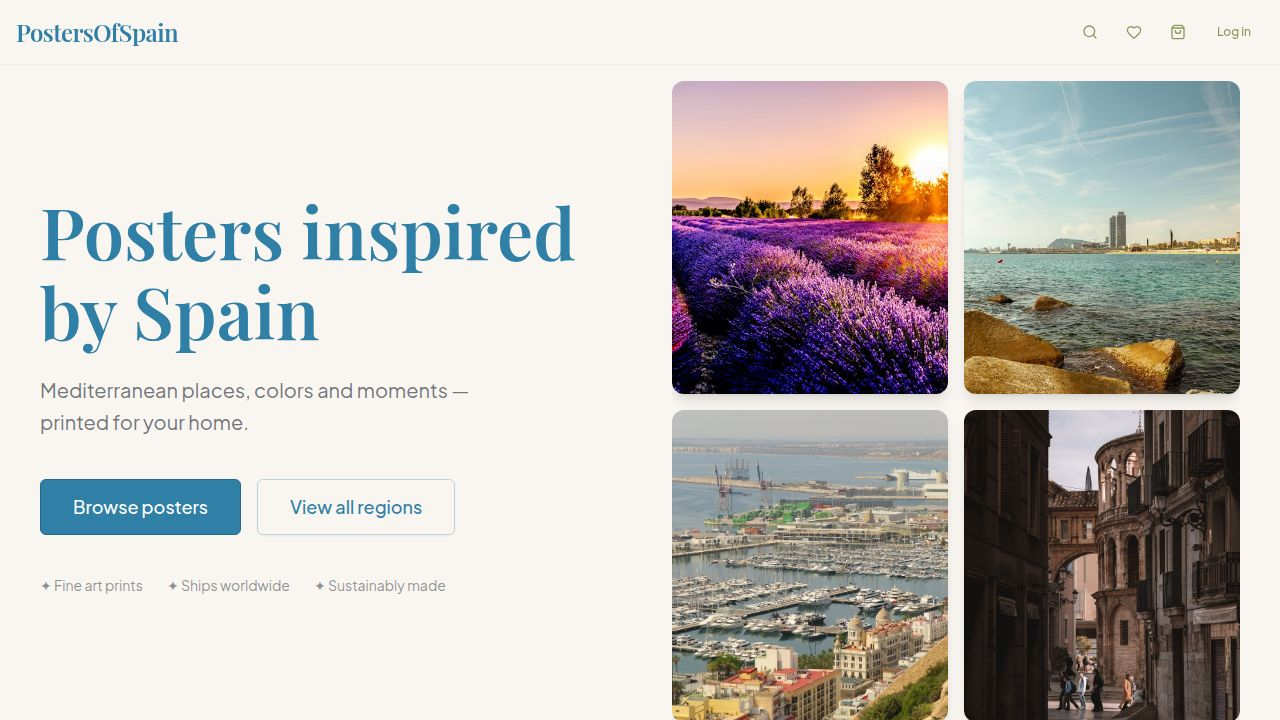
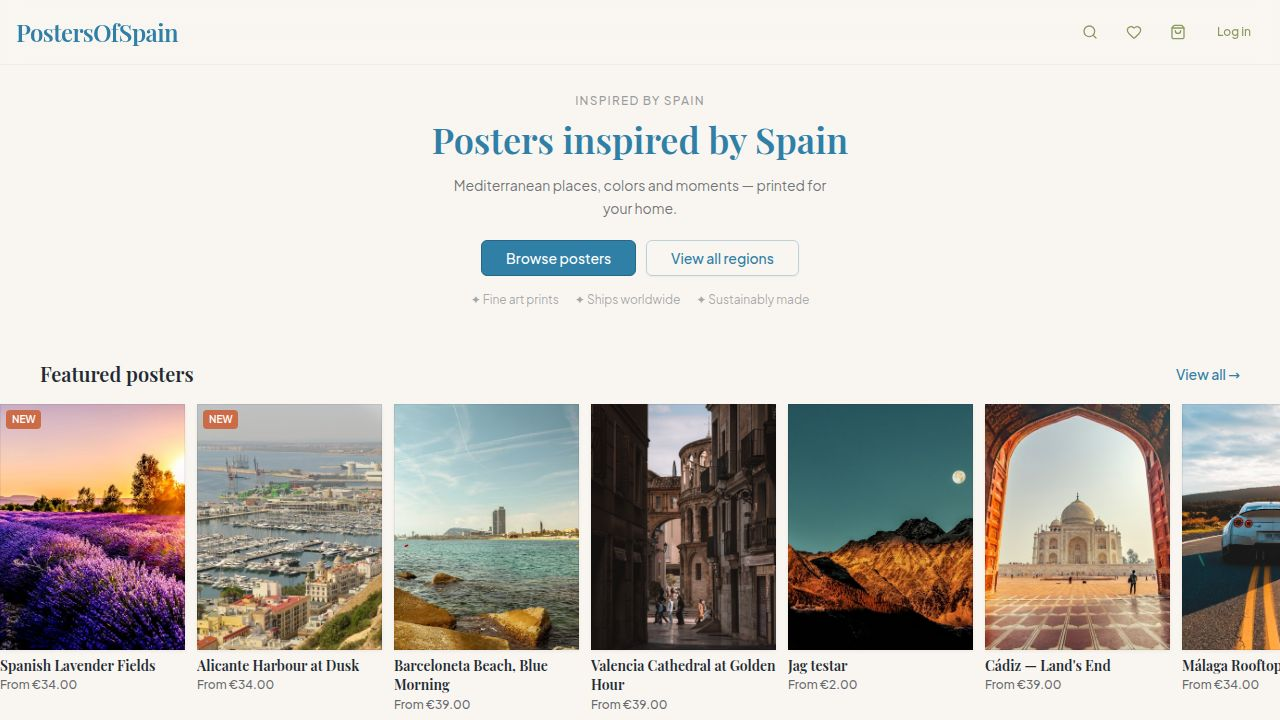
Add new discovery sections to the homepage for posters
Add collection banner, shop by region/category chips, and new arrivals to the homepage.

Replit-Commit-Author: Agent
Replit-Commit-Session-Id: a4fbacea-22a4-4f6d-a8f4-43931add6042
Replit-Commit-Checkpoint-Type: full_checkpoint
Replit-Commit-Event-Id: a480268a-7641-43c1-b3ce-03cb1370012c
Replit-Commit-Screenshot-Url: https://storage.googleapis.com/screenshot-production-us-central1/381230bc-e6ff-44a5-9391-447ea06c2c17/a4fbacea-22a4-4f6d-a8f4-43931add6042/amlrFMo
Replit-Helium-Checkpoint-Created: true

diff --git a/artifacts/poster-store/src/pages/Home.tsx b/artifacts/poster-store/src/pages/Home.tsx
@@ -4,6 +4,9 @@ import { useStorefront } from "@/context/StorefrontContext";
 import {
   useGetFeaturedPosters,
   getGetFeaturedPostersQueryKey,
+  useListPosters,
+  getListPostersQueryKey,
+  ListPostersSort,
   Poster,
 } from "@workspace/api-client-react";
 import { Button } from "@/components/ui/button";
@@ -34,7 +37,13 @@ function formatPrice(price: number, currency: string): string {
   return `${symbol}${price.toFixed(2)}`;
 }
 
-/** Compact card used only on the homepage featured row */
+/** Build a /shop URL, prepending a routePrefix when present. */
+function makeShopUrl(routePrefix: string | null, query?: string): string {
+  const base = routePrefix ? `/${routePrefix}/shop` : "/shop";
+  return query ? `${base}?${query}` : base;
+}
+
+/** Compact card used only on the homepage featured/new-arrivals rows */
 function HomePosterCard({ poster }: { poster: Poster }) {
   const slug = (poster as any).slug as string | undefined;
   const href = slug ? `/posters/${slug}` : `/poster/${poster.id}`;
@@ -109,8 +118,20 @@ function HomePosterCard({ poster }: { poster: Poster }) {
   );
 }
 
+/** Skeleton card for loading states */
+function PosterCardSkeleton() {
+  return (
+    <div className="flex-none w-[155px] sm:w-[170px] lg:w-[185px] snap-start">
+      <div className="aspect-[3/4] bg-muted animate-pulse" />
+      <div className="mt-1.5 h-3.5 bg-muted animate-pulse w-3/4" />
+      <div className="mt-1 h-3 bg-muted animate-pulse w-1/2" />
+    </div>
+  );
+}
+
 export default function Home() {
   const store = useStorefront();
+  const { resolvedRoutePrefix } = store;
 
   const { data: featured } = useGetFeaturedPosters(
     { storeKey: store.storeKey, limit: 12 },
@@ -121,9 +142,41 @@ export default function Home() {
     }
   );
 
+  const { data: newArrivalsData } = useListPosters(
+    {
+      storeKey: store.storeKey,
+      sort: ListPostersSort.newest,
+      limit: 10,
+      status: "published",
+    },
+    {
+      query: {
+        queryKey: getListPostersQueryKey({
+          storeKey: store.storeKey,
+          sort: ListPostersSort.newest,
+          limit: 10,
+          status: "published",
+        }),
+      },
+    }
+  );
+
   const brandStory =
     (store as any).homepage?.brandStory ??
     "A curated poster collection inspired by cities, landscapes, food, architecture and everyday moments.";
+
+  const collectionBanner = store.shop?.collectionBanner;
+
+  // Build discovery chips: up to 5 regions + up to 4 categories
+  const regionChips = (store.regions ?? []).slice(0, 5);
+  const categoryChips = (store.categories ?? []).slice(0, 4);
+
+  // New arrivals: dedupe against featured (by id), show up to 8
+  const featuredIds = new Set((featured ?? []).map((p) => p.id));
+  const newArrivals = (newArrivalsData?.posters ?? [])
+    .filter((p) => !featuredIds.has(p.id))
+    .slice(0, 8);
+  const showNewArrivals = newArrivals.length >= 3;
 
   return (
     <div className="min-h-screen pb-16">
@@ -141,12 +194,12 @@ export default function Home() {
             Mediterranean places, colors and moments — printed for your home.
           </p>
           <div className="flex flex-col sm:flex-row gap-2.5 justify-center">
-            <Link href="/shop">
+            <Link href={makeShopUrl(resolvedRoutePrefix)}>
               <Button size="default" className="w-full sm:w-auto h-9 px-6 text-sm" data-testid="btn-hero-primary">
                 Browse posters
               </Button>
             </Link>
-            <Link href="/shop">
+            <Link href={makeShopUrl(resolvedRoutePrefix)}>
               <Button
                 size="default"
                 variant="outline"
@@ -170,7 +223,7 @@ export default function Home() {
           <div className="flex items-center justify-between mb-4">
             <h2 className="font-serif text-xl font-bold text-foreground">Featured posters</h2>
             <Link
-              href="/shop"
+              href={makeShopUrl(resolvedRoutePrefix)}
               className="text-sm text-primary font-medium hover:underline shrink-0 ml-4"
             >
               View all &rarr;
@@ -192,18 +245,109 @@ export default function Home() {
                   </div>
                 ))
               : Array.from({ length: 7 }).map((_, i) => (
-                  <div
-                    key={i}
-                    className="flex-none w-[155px] sm:w-[170px] lg:w-[185px] snap-start"
-                  >
-                    <div className="aspect-[3/4] bg-muted animate-pulse" />
-                    <div className="mt-1.5 h-3.5 bg-muted animate-pulse w-3/4" />
-                    <div className="mt-1 h-3 bg-muted animate-pulse w-1/2" />
-                  </div>
+                  <PosterCardSkeleton key={i} />
                 ))}
           </div>
         </div>
       </section>
+
+      {/* ── Collection / discovery banner ── */}
+      {collectionBanner && (
+        <section className="py-10 lg:py-12 border-b border-border bg-sand/40">
+          <div className="container mx-auto px-6 lg:px-10">
+            <div className="max-w-2xl">
+              <p className="text-[10px] font-semibold uppercase tracking-[0.18em] text-foreground/40 mb-2">
+                COLLECTION
+              </p>
+              <h2 className="font-serif text-2xl sm:text-3xl font-bold text-primary leading-tight mb-3">
+                {collectionBanner.title}
+              </h2>
+              <p className="text-sm text-foreground/65 leading-relaxed mb-5 max-w-md">
+                {collectionBanner.text}
+              </p>
+              <Link
+                href={
+                  collectionBanner.ctaLink
+                    ? resolvedRoutePrefix
+                      ? `/${resolvedRoutePrefix}${collectionBanner.ctaLink}`
+                      : collectionBanner.ctaLink
+                    : makeShopUrl(resolvedRoutePrefix)
+                }
+                className="inline-flex items-center gap-1.5 text-sm font-medium text-primary hover:underline"
+              >
+                {collectionBanner.ctaText ?? "Explore collection"} →
+              </Link>
+            </div>
+          </div>
+        </section>
+      )}
+
+      {/* ── Shop by region / category ── */}
+      {(regionChips.length > 0 || categoryChips.length > 0) && (
+        <section className="py-8 lg:py-10 border-b border-border" data-testid="shop-by-region-section">
+          <div className="container mx-auto px-6 lg:px-10">
+            <h2 className="font-serif text-lg font-bold text-foreground mb-4">
+              {store.shop?.regionFilterLabel ?? "Explore Spain"}
+            </h2>
+            <div className="flex flex-wrap gap-2">
+              {regionChips.map((region) => (
+                <Link
+                  key={region}
+                  href={makeShopUrl(resolvedRoutePrefix, `region=${encodeURIComponent(region)}`)}
+                  className="inline-flex items-center px-3.5 py-1.5 rounded-full border border-border text-sm text-foreground/75 bg-surface hover:bg-sand/60 hover:border-primary/30 hover:text-primary transition-colors duration-150"
+                >
+                  {region}
+                </Link>
+              ))}
+              {categoryChips.map((cat) => (
+                <Link
+                  key={cat}
+                  href={makeShopUrl(resolvedRoutePrefix, `category=${encodeURIComponent(cat)}`)}
+                  className="inline-flex items-center px-3.5 py-1.5 rounded-full border border-border text-sm text-foreground/75 bg-surface hover:bg-sand/60 hover:border-primary/30 hover:text-primary transition-colors duration-150"
+                >
+                  {cat}
+                </Link>
+              ))}
+              <Link
+                href={makeShopUrl(resolvedRoutePrefix)}
+                className="inline-flex items-center px-3.5 py-1.5 rounded-full border border-primary/25 text-sm text-primary bg-primary/5 hover:bg-primary/10 transition-colors duration-150"
+              >
+                View all →
+              </Link>
+            </div>
+          </div>
+        </section>
+      )}
+
+      {/* ── New arrivals ── */}
+      {showNewArrivals && (
+        <section className="pt-6 pb-7 lg:pt-7 lg:pb-9 border-b border-border" data-testid="new-arrivals-section">
+          <div className="container mx-auto px-6 lg:px-10">
+            <div className="flex items-center justify-between mb-4">
+              <h2 className="font-serif text-xl font-bold text-foreground">New arrivals</h2>
+              <Link
+                href={makeShopUrl(resolvedRoutePrefix, "sort=newest")}
+                className="text-sm text-primary font-medium hover:underline shrink-0 ml-4"
+              >
+                View all &rarr;
+              </Link>
+            </div>
+            <div
+              className="flex gap-3 overflow-x-auto pb-3 scroll-smooth snap-x snap-mandatory -mx-6 px-6 lg:-mx-10 lg:px-10"
+              style={{ scrollbarWidth: "none" }}
+            >
+              {newArrivals.map((poster) => (
+                <div
+                  key={poster.id}
+                  className="flex-none w-[155px] sm:w-[170px] lg:w-[185px] snap-start"
+                >
+                  <HomePosterCard poster={poster} />
+                </div>
+              ))}
+            </div>
+          </div>
+        </section>
+      )}
 
       {/* ── Brand quote ── */}
       <section className="py-12 lg:py-14" data-testid="brand-story-section">

diff --git a/artifacts/poster-store/src/config/storefronts.ts b/artifacts/poster-store/src/config/storefronts.ts
@@ -42,6 +42,8 @@ export interface StorefrontConfig {
       title: string;
       text: string;
       ctaText?: string;
+      /** Full relative path + query for the CTA, e.g. /shop?category=Coastal+Posters */
+      ctaLink?: string;
     };
   };
   regions: string[];
@@ -95,6 +97,7 @@ export const storefronts: Record<string, StorefrontConfig> = {
         title: "Mediterranean Walls",
         text: "Warm-toned prints inspired by Spanish streets, terraces and coastlines.",
         ctaText: "Explore coastal posters",
+        ctaLink: "/shop?category=Coastal+Posters",
       },
     },
     regions: ["Valencia","Andalusia","Catalonia","Madrid","Balearic Islands","Basque Country","Galicia","Canary Islands"],